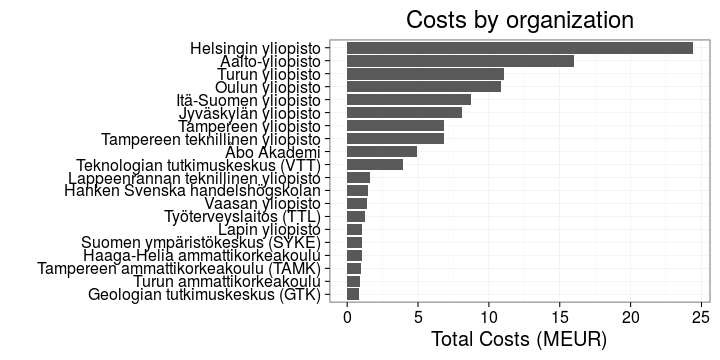
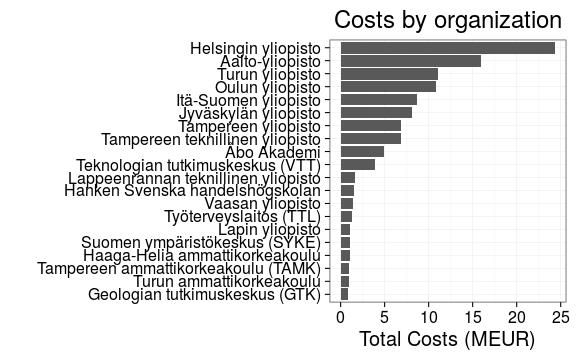
ok

diff --git a/20160610/foi.md b/20160610/foi.md
@@ -14,22 +14,20 @@ FOI request
 
 
 
-### Total costs by organization 2010-2015
+### Overall costs 2010-2015
 
-<img src="figure/foi-totalcosts-1.png" title="plot of chunk foi-totalcosts" alt="plot of chunk foi-totalcosts" width="400px" /><img src="figure/foi-totalcosts-2.png" title="plot of chunk foi-totalcosts" alt="plot of chunk foi-totalcosts" width="400px" /><img src="figure/foi-totalcosts-3.png" title="plot of chunk foi-totalcosts" alt="plot of chunk foi-totalcosts" width="400px" /><img src="figure/foi-totalcosts-4.png" title="plot of chunk foi-totalcosts" alt="plot of chunk foi-totalcosts" width="400px" /><img src="figure/foi-totalcosts-5.png" title="plot of chunk foi-totalcosts" alt="plot of chunk foi-totalcosts" width="400px" />
+<img src="figure/foi-totalcosts-1.png" title="plot of chunk foi-totalcosts" alt="plot of chunk foi-totalcosts" width="450px" /><img src="figure/foi-totalcosts-2.png" title="plot of chunk foi-totalcosts" alt="plot of chunk foi-totalcosts" width="450px" /><img src="figure/foi-totalcosts-3.png" title="plot of chunk foi-totalcosts" alt="plot of chunk foi-totalcosts" width="450px" /><img src="figure/foi-totalcosts-4.png" title="plot of chunk foi-totalcosts" alt="plot of chunk foi-totalcosts" width="450px" />
 
- * [Total costs by organization (complete table)](table/cost_by_organization.csv).
- * [Total costs by publisher (complete table)](table/cost_by_publisher.csv).
- * [Total costs by material](table/cost_by_material.csv).
- * [Total costs by type](table/cost_by_type.csv).
- * [Total costs by year](table/cost_by_year.csv).   
-
-
+ * [Total costs by organization (complete table)](table/cost_by_organization.csv)
+ * [Total costs by publisher (complete table)](table/cost_by_publisher.csv)
+ * [Total costs by material](table/cost_by_material.csv)
+ * [Total costs by type](table/cost_by_type.csv)
+ * [Total costs by year](table/cost_by_year.csv)   
 
 
-```
-## Error in eval(expr, envir, enclos): object 'Costs' not found
-```
+### Prices development over time
+
+The total costs Finland paid to scientific publishers 2010-2015. The annual increase is indicated.
 
 <img src="figure/foi-plots-1.png" title="plot of chunk foi-plots" alt="plot of chunk foi-plots" width="400px" />
 
